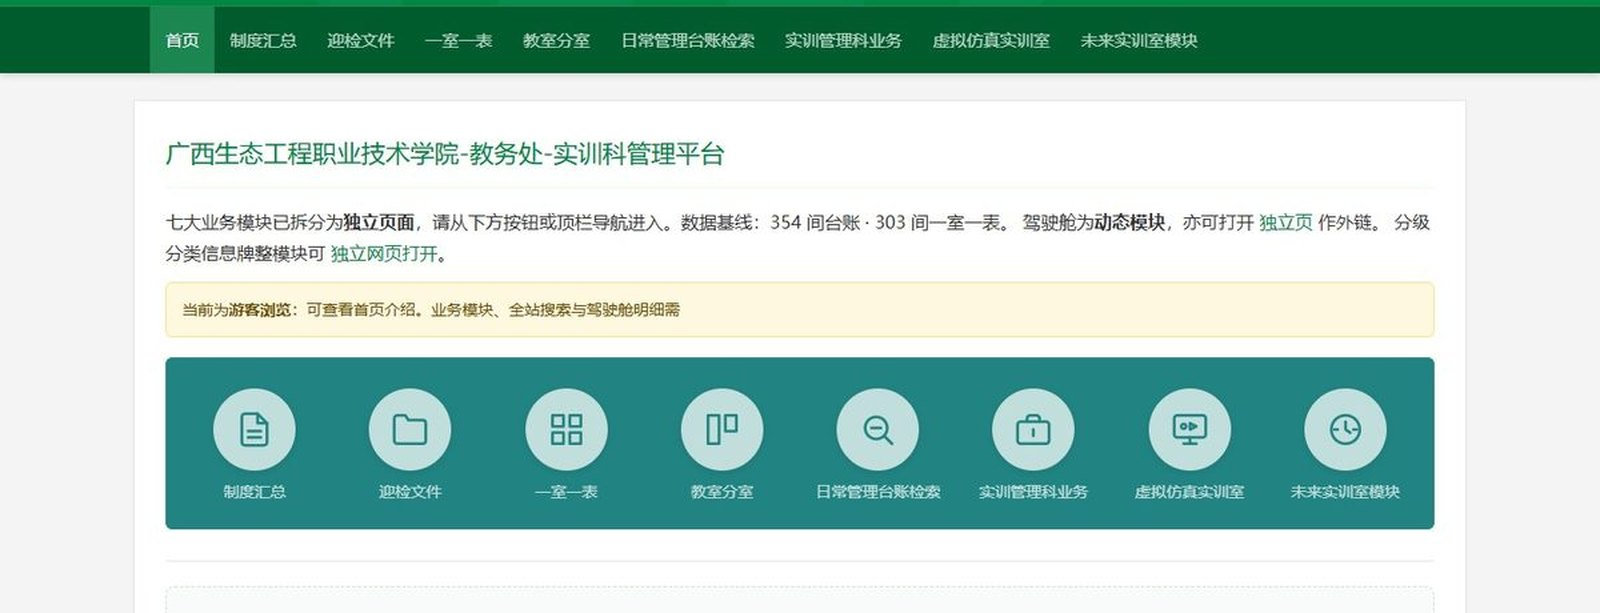
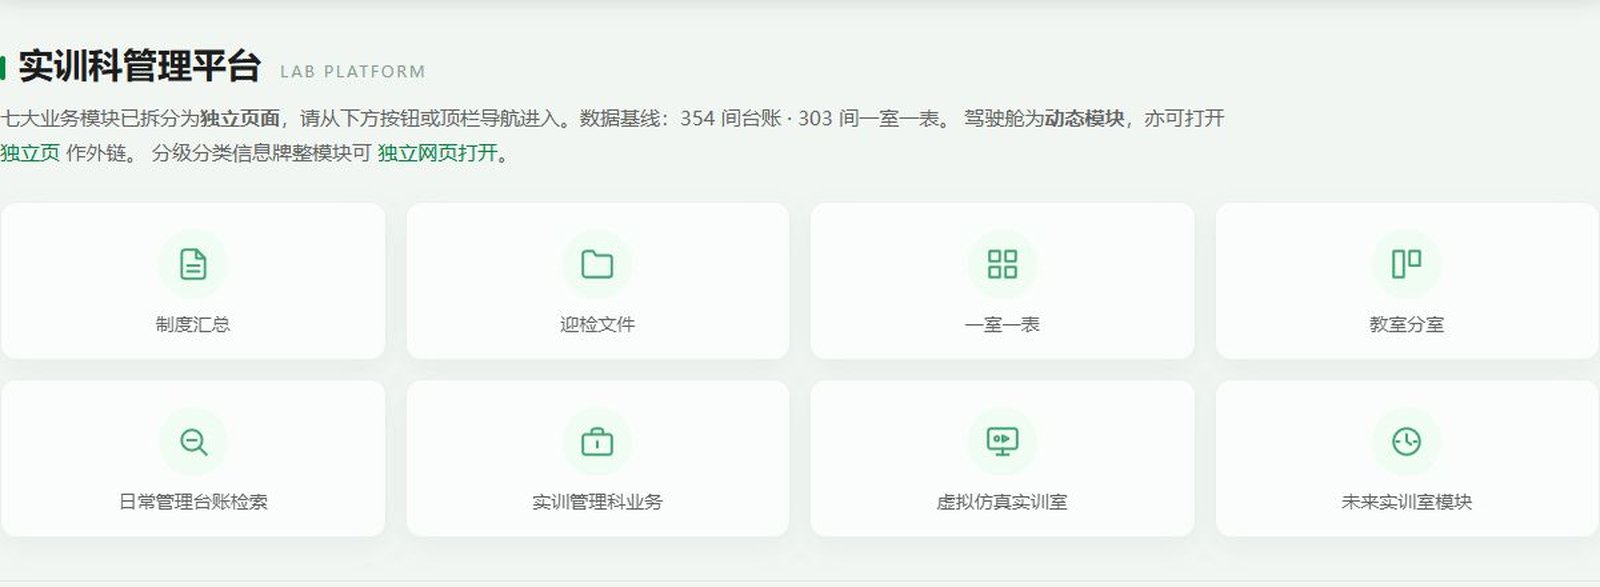
V2.9: 实训室封面换成线上新主页八模块截图

diff --git a/static/index.html b/static/index.html
@@ -1430,7 +1430,7 @@
           <a class="feature" href="https://gxstzy-shixun.ai-builders.space" target="_blank" rel="noreferrer">
             <div class="cover">
               <div class="frame">
-                <img src="works/shixun-cover.jpg?v=hub2" alt="实训室管理平台八个模块" loading="lazy" decoding="async" />
+                <img src="works/shixun-cover.jpg?v=hub3" alt="实训室管理平台八个模块" loading="lazy" decoding="async" />
               </div>
               <div class="cover-name"><h4 data-i18n="card.shixun.h4">实训室管理平台</h4></div>
             </div>
